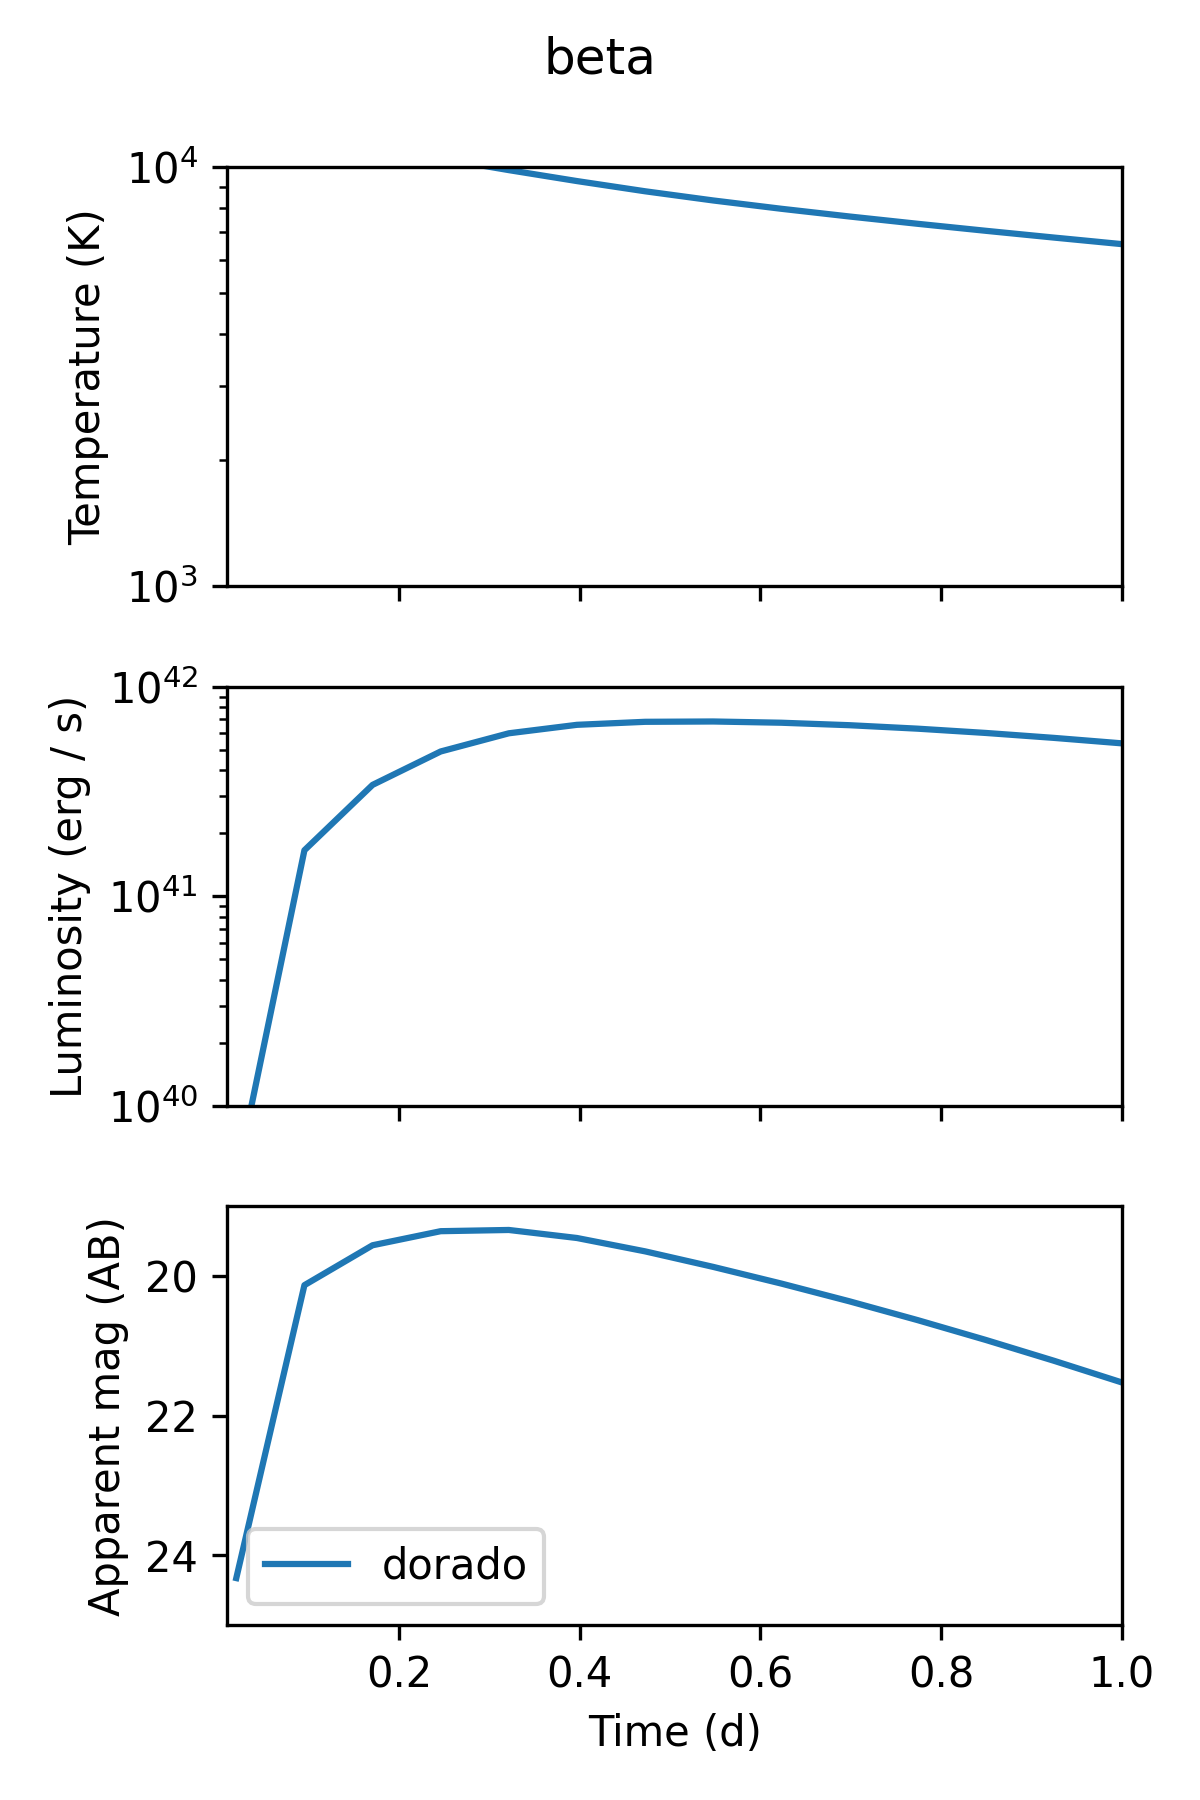
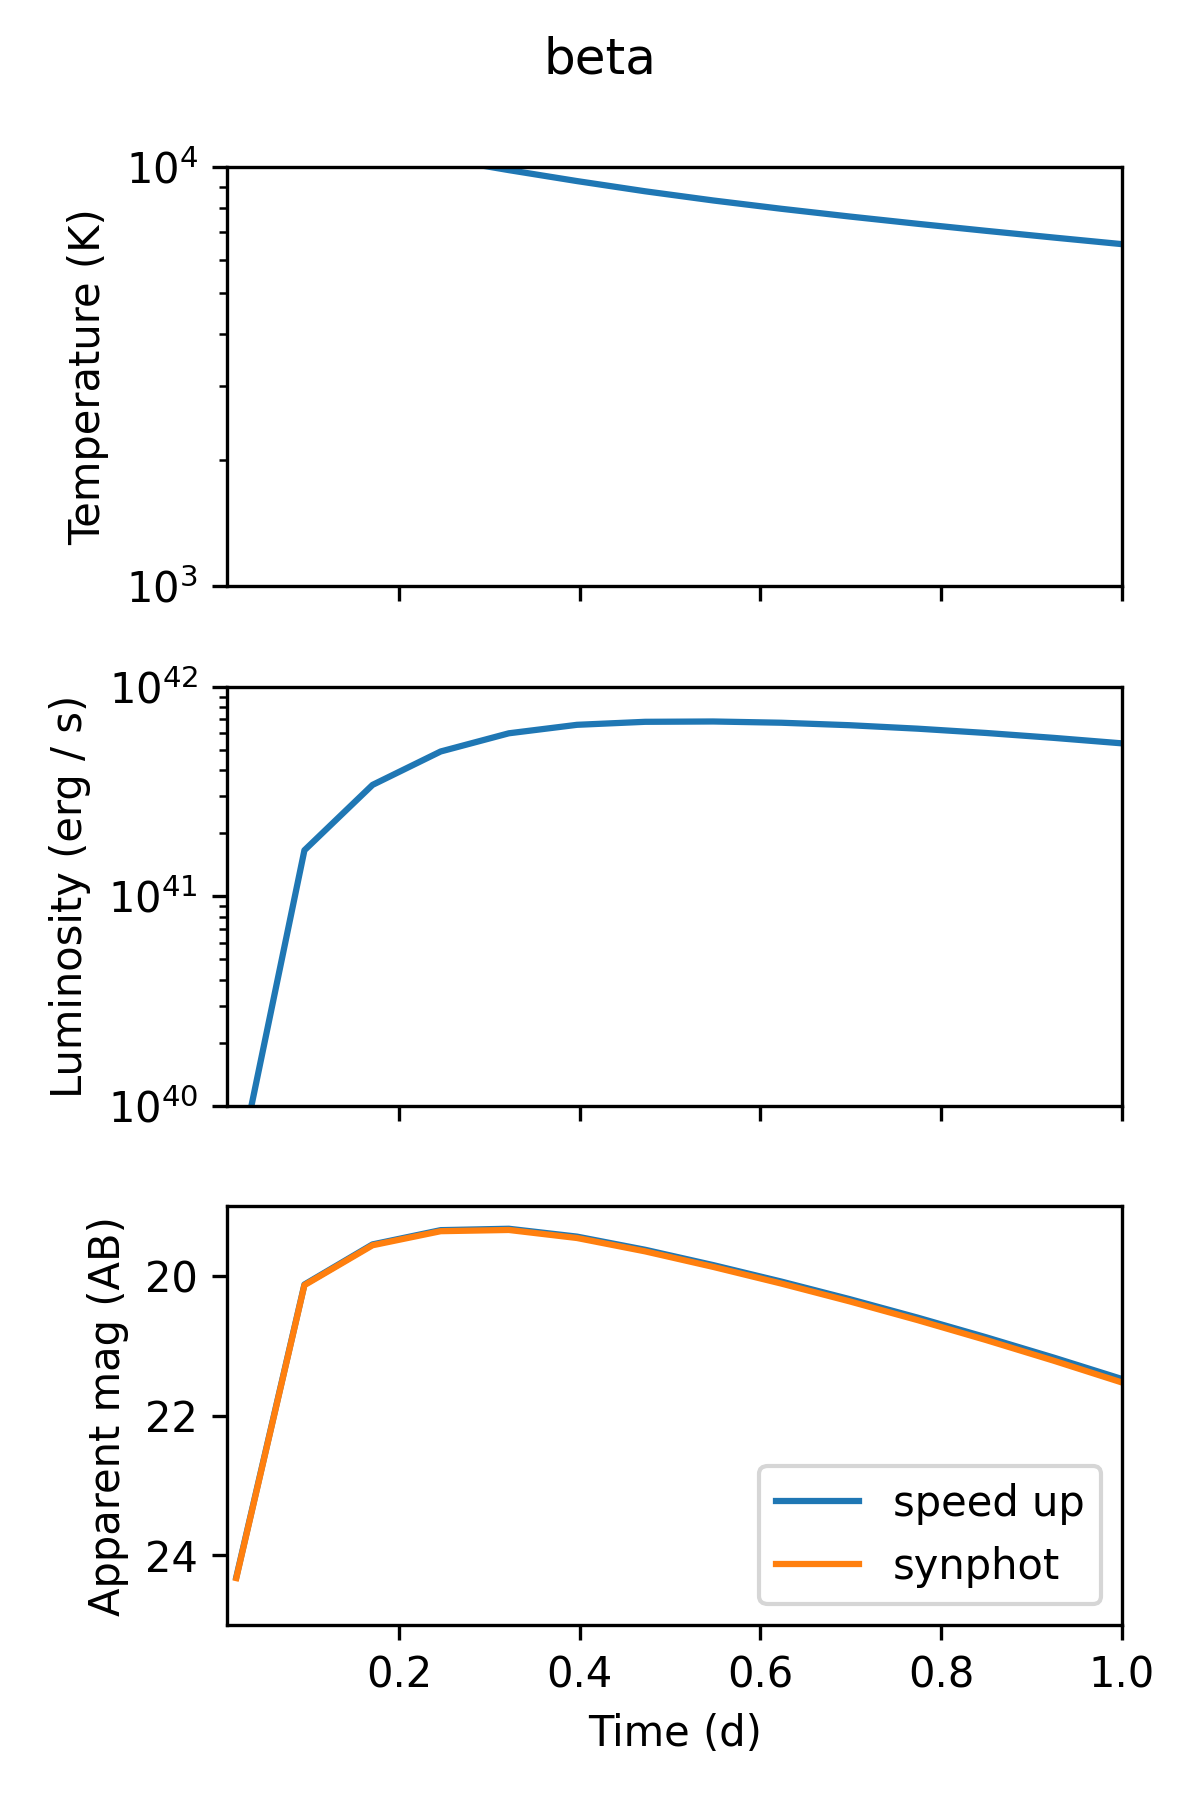
added faster abmagnitude calculation

diff --git a/example.py b/example.py
@@ -6,7 +6,8 @@ from astropy import units as u
 from kilonova_heating_rate import lightcurve
 from matplotlib import pyplot as plt
 import numpy as np
-import synphot
+from sed_integrator import get_abmag, get_abmag_synphot
+
 import dorado.sensitivity
 bp_dorado = dorado.sensitivity.bandpasses.NUV_D
 
@@ -16,50 +17,39 @@ opacities = np.asarray([3.0, 0.5]) * u.cm**2 / u.g
 n = 4.5
 t = np.linspace(0.02, 1, 14) * u.day
 heating = 'beta'
-
+DL = 40 * u.Mpc
 
 L, T, r = lightcurve(t, mass, velocities, opacities, n, heating_function=heating)
+abmag_byhand = get_abmag(T, r, DL, bp_dorado)
+abmag_synphot = get_abmag_synphot(T, r, DL, bp_dorado)
 
 timing_korobkin = int(np.round(1e3 * np.median(timeit.repeat(
     'lightcurve(t, mass, velocities, opacities, n)',
     globals=globals(), number=1, repeat=10))))
-
-print(f'light curve korobkin = {timing_korobkin} ms')
+print(f'korobkin = {timing_korobkin} ms')
 
 timing_beta = int(np.round(1e3 * np.median(timeit.repeat(
     'lightcurve(t, mass, velocities, opacities, n, heating_function=heating)',
     globals=globals(), number=1, repeat=10))))
+print(f'beta = {timing_beta} ms')
 
-print(f'light curve beta = {timing_beta} ms')
-
-# Evaluate flux in band at 40 Mpc for a few different filters.
-DL = 40 * u.Mpc
-
-seds = [
-    synphot.SourceSpectrum(synphot.BlackBody1D, temperature=TT)
-    * np.pi * (rr / DL).to(u.dimensionless_unscaled)**2
-    for TT, rr in zip(T, r)]
-    
-timing_seds = int(np.round(1e3 * np.median(timeit.repeat(
-    '[synphot.SourceSpectrum(synphot.BlackBody1D, temperature=TT)*np.pi*(rr / DL).to(u.dimensionless_unscaled)**2 for TT, rr in zip(T, r)]',
+timing_byhand = int(np.round(1e3 * np.median(timeit.repeat(
+    'get_abmag(T, r, DL, bp_dorado)',
     globals=globals(), number=1, repeat=10))))
+print(f'by hand = {timing_byhand} ms')
 
-print(f'seds = {timing_seds} ms')
-
-abmag_dorado = [synphot.Observation(sed, bp_dorado).effstim(u.ABmag).value for sed in seds]
-
-timing_abmags = int(np.round(1e3 * np.median(timeit.repeat(
-    '[synphot.Observation(sed, bp_dorado).effstim(u.ABmag).value for sed in seds]',
+timing_synphot = int(np.round(1e3 * np.median(timeit.repeat(
+    'get_abmag_synphot(T, r, DL, bp_dorado)',
     globals=globals(), number=1, repeat=10))))
-
-print(f'abmag = {timing_abmags} ms')
-print(f'total time for beta likelihood = {timing_beta+timing_abmags+timing_seds} ms')
+print(f'by synphot = {timing_synphot} ms')
 
 fig, (ax1, ax2, ax3) = plt.subplots(3, 1, sharex=True, figsize=(4, 6))
 fig.suptitle(f'{heating}')
 ax1.plot(t, T)
 ax2.plot(t, L)
-ax3.plot(t,abmag_dorado,label='dorado')
+ax3.plot(t,abmag_byhand,label='speed up')
+ax3.plot(t,abmag_synphot,label='synphot')
+
 ax3.set_xlabel(f'Time ({t.unit})')
 ax1.set_ylabel(f'Temperature ({T.unit})')
 ax2.set_ylabel(f'Luminosity ({L.unit})')

diff --git a/sed_integrator.py b/sed_integrator.py
@@ -1,0 +1,61 @@
+from astropy import constants as const
+from astropy import units as u
+import numpy as np
+import synphot
+
+
+def get_abmag(T,r,distance,bandpass):
+    '''calculate AB magnitude faster.
+    
+    This code is largely copied from Synphot, using: synphot.BlackBody1D,
+    synphot.SourceSpectrum and synphot.Observation. However, it's vectorized.
+    Redshift has not yet been implemented here.
+    
+    Parameters
+    ----------
+    T : float 1darray
+        Blackbody Temperature
+    r : float 1darray
+        Blackbody radius
+    D : float
+        Luminosity distance
+    bandpass : object synphot.spectrum.SpectralElement
+        Bandpass
+    
+    Returns
+    -------
+    abmag : float 1darray 
+        AB magnitudes
+    '''
+    h = const.h.cgs
+    c = const.c.cgs
+    k_B = const.k_B.cgs
+    
+    wav = bandpass.waveset
+    wav_nounits = wav.value
+    B_l = 2*h*c**2/np.multiply(wav**5,np.exp(h*c/(k_B*np.outer(T,wav)))-1) #spectral radiance
+    f_l = B_l.T*np.pi*(r / distance)**2 # scale spectral density for flux
+    f_PHOTLAM = (f_l.T/((h*c/wav))).to(1/u.cm**2/u.s/u.Angstrom)*bandpass(wav) #convert to photlam and apply bandpass
+    num = abs(np.trapz(f_PHOTLAM.value * wav_nounits, x=wav_nounits)) 
+    den = np.ones(len(T))*abs(np.trapz(bandpass(wav) * wav_nounits, x = wav_nounits))
+    val = (num / den)*synphot.units.PHOTLAM #convolve with bandpass for total photon flux
+    abmag = synphot.units.convert_flux(bandpass.pivot(),val,u.ABmag).value #return ABmag
+    return abmag
+
+def get_abmag_synphot(T, r, distance, bandpass):
+    seds = [synphot.SourceSpectrum(synphot.BlackBody1D, temperature=TT) * np.pi * (rr / distance).to(u.dimensionless_unscaled)**2 for TT,rr in zip(T, r)]
+    abmag_synphot = [synphot.Observation(sed, bandpass).effstim(u.ABmag).value for sed in seds]
+    return abmag_synphot
+
+#plt.plot(t,abmag_byhand,label='byhand')
+#plt.plot(t,abmag_synphot,label='synphot')
+#plt.plot(t,abmag_byhand-abmag_synphot,label='ratio')
+
+#idx = 0
+#plt.plot(wav,synphot.Observation(seds[idx],bp_dorado)(wav))
+#plt.plot(wav,f_convolve[idx])
+
+#plt.plot(wav,f_PHOTLAM[idx],label='byhand')
+#plt.plot(wav,seds[idx](wav),label='synphot')
+
+#plt.legend()
